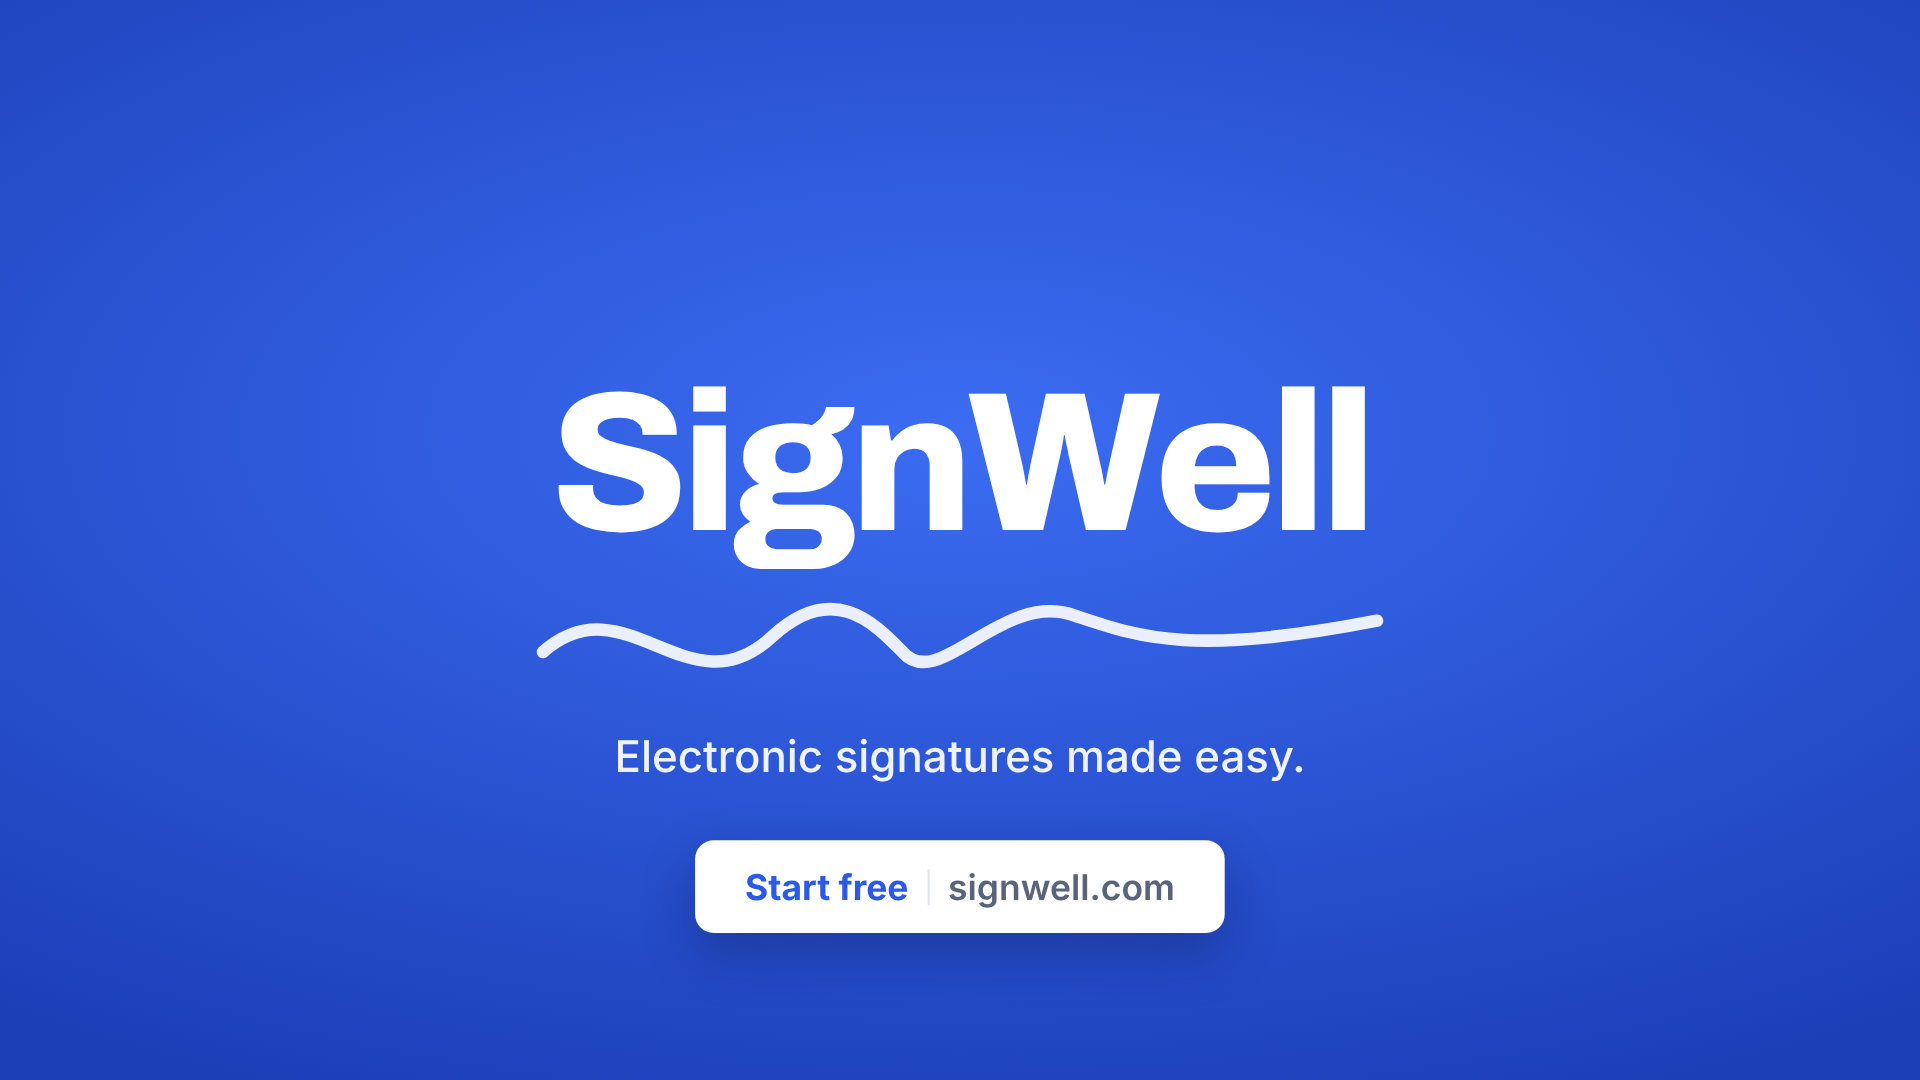
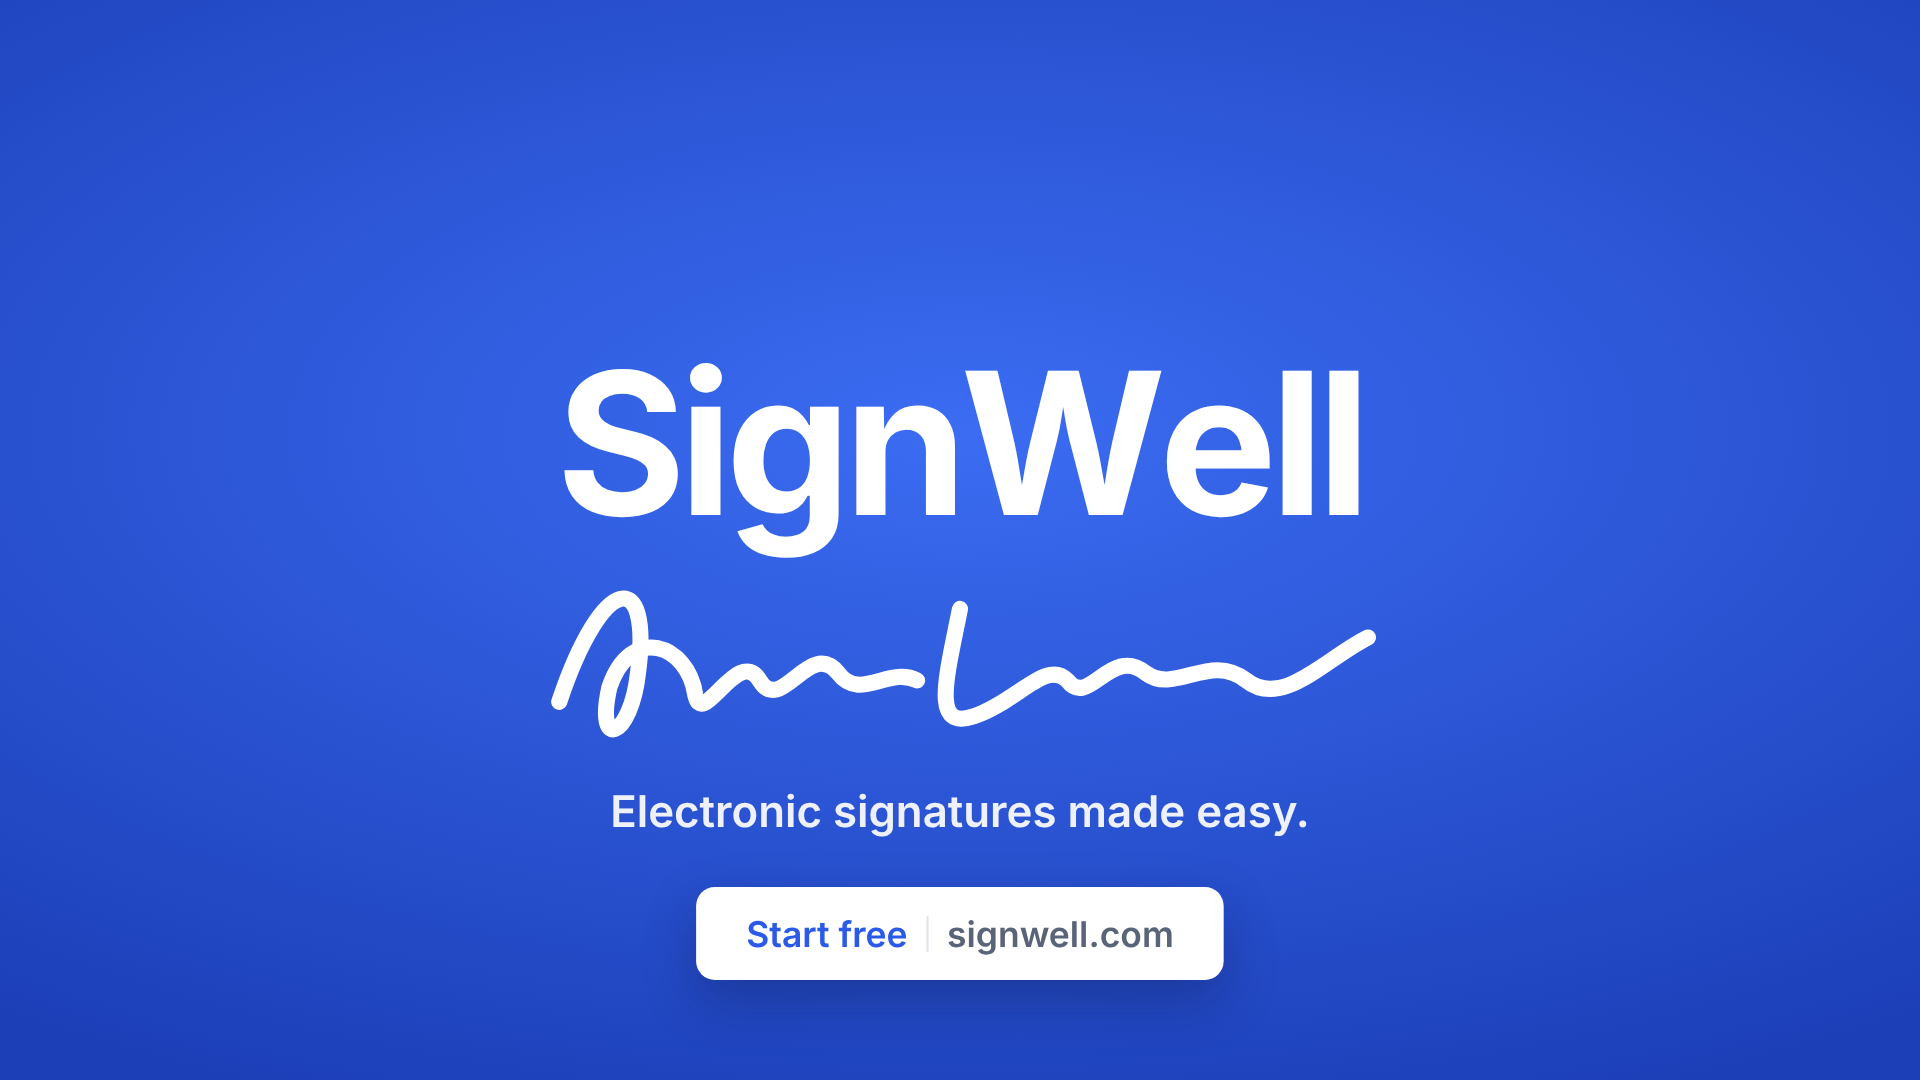
Apply client type guideline: Inter 700/600/400, buttons 600
Type weights live in TYPE tokens in config.ts; Archivo dropped.

Claude-Session: https://claude.ai/code/session_01Bj9t4gf6bduhWLshrrUDNo

Changed region(s): [[0.2812, 0.3361, 0.7188, 0.9167]]

diff --git a/signwell/src/components/Editor.tsx b/signwell/src/components/Editor.tsx
@@ -1,4 +1,5 @@
 import React from 'react';
+import {TYPE} from '../config';
 import {COLORS, COPY} from '../config';
 import {BODY, DISPLAY, HAND} from '../fonts';
 
@@ -17,7 +18,7 @@ export type Status = 'send' | 'sent' | 'viewed' | 'signed';
 
 export const FieldChip: React.FC<{label: string; w: number; h: number; color?: string; soft?: string; dashed?: boolean; size?: number}> = ({label, w, h, color = COLORS.blue, soft = 'rgba(43,89,232,.12)', dashed, size = 20}) => (
   <div style={{width: w, height: h, borderRadius: 10, border: `3px ${dashed ? 'dashed' : 'solid'} ${color}`, background: soft,
-    display: 'flex', alignItems: 'center', justifyContent: 'center', color, fontFamily: BODY, fontWeight: 700, fontSize: size}}>{label}</div>
+    display: 'flex', alignItems: 'center', justifyContent: 'center', color, fontFamily: BODY, fontWeight: TYPE.button, fontSize: size}}>{label}</div>
 );
 
 export const Signature: React.FC<{progress: number; width?: number; color?: string}> = ({progress, width = 240, color = '#14286e'}) => {
@@ -47,25 +48,25 @@ export const Editor: React.FC<{
       {/* top bar */}
       <div style={{height: WIN.top, borderBottom: `1px solid ${COLORS.line}`, display: 'flex', alignItems: 'center', gap: 14, padding: '0 24px'}}>
         {[0, 1, 2].map(i => <div key={i} style={{width: 14, height: 14, borderRadius: '50%', background: '#e3e6ee'}} />)}
-        <div style={{fontFamily: DISPLAY, fontWeight: 800, fontSize: 26, color: COLORS.blue, marginLeft: 16}}>{COPY.s3.product}</div>
+        <div style={{fontFamily: DISPLAY, fontWeight: TYPE.heading, fontSize: 26, color: COLORS.blue, marginLeft: 16}}>{COPY.s3.product}</div>
         <div style={{fontSize: 19, color: COLORS.ink2, marginLeft: 22}}>{COPY.s3.docName}</div>
         <div style={{marginLeft: 'auto', display: 'flex', alignItems: 'center', gap: 10, fontSize: 18, color: COLORS.ink2}}>
           To
           <span style={{display: 'inline-flex', alignItems: 'center', gap: 8, padding: '7px 14px', borderRadius: 99, background: COLORS.blueSoft, color: COLORS.blue, fontWeight: 600}}>
             <span style={{width: 10, height: 10, borderRadius: '50%', background: COLORS.blue}} />{COPY.s3.recipient}</span>
         </div>
-        <div style={{width: 140, height: 46, borderRadius: 12, background: pill.bg, color: pill.fg, fontWeight: 700, fontSize: 20, marginLeft: 16,
+        <div style={{width: 140, height: 46, borderRadius: 12, background: pill.bg, color: pill.fg, fontWeight: TYPE.button, fontSize: 20, marginLeft: 16,
           display: 'flex', alignItems: 'center', justifyContent: 'center', transform: `scale(${statusScale})`}}>{pill.label}</div>
       </div>
       <div style={{display: 'flex', height: WIN.h - WIN.top}}>
         {/* field palette */}
         <div style={{width: WIN.side, borderRight: `1px solid ${COLORS.line}`, padding: '0 24px', position: 'relative'}}>
-          <div style={{position: 'absolute', top: 30, left: 24, fontSize: 15, fontWeight: 700, letterSpacing: '.12em', color: COLORS.ink2}}>FIELDS</div>
+          <div style={{position: 'absolute', top: 30, left: 24, fontSize: 15, fontWeight: TYPE.subheading, letterSpacing: '.12em', color: COLORS.ink2}}>FIELDS</div>
           {COPY.s3.fields.map((label, i) => (
             <div key={i} style={{position: 'absolute', left: 24, top: 150 + i * 76 - 30 - WIN.top, width: 232, height: 60, borderRadius: 12,
               border: `2px solid ${hoverIndex === i ? COLORS.blue : COLORS.line}`, background: hoverIndex === i ? COLORS.blueSoft : '#fff',
               display: 'flex', alignItems: 'center', gap: 12, padding: '0 18px', fontSize: 20, fontWeight: 600, color: hoverIndex === i ? COLORS.blue : COLORS.ink}}>
-              <span style={{width: 26, height: 26, borderRadius: 7, background: COLORS.blueSoft, color: COLORS.blue, fontSize: 15, fontWeight: 800,
+              <span style={{width: 26, height: 26, borderRadius: 7, background: COLORS.blueSoft, color: COLORS.blue, fontSize: 15, fontWeight: TYPE.heading,
                 display: 'flex', alignItems: 'center', justifyContent: 'center'}}>{['✎', 'AB', '▦', 'T'][i]}</span>{label}
             </div>
           ))}
@@ -74,11 +75,11 @@ export const Editor: React.FC<{
         <div style={{flex: 1, background: COLORS.canvas, position: 'relative', overflow: 'hidden'}}>
           <div style={{position: 'absolute', left: PAGE.x - WIN.side, top: PAGE.y - WIN.top, width: PAGE.w, height: 900, background: '#fff',
             boxShadow: '0 8px 24px rgba(20,27,45,.08)'}}>
-            <div style={{position: 'absolute', left: 48, top: 48, fontFamily: DISPLAY, fontWeight: 700, fontSize: 32}}>{COPY.s3.docTitle}</div>
+            <div style={{position: 'absolute', left: 48, top: 48, fontFamily: DISPLAY, fontWeight: TYPE.heading, fontSize: 32}}>{COPY.s3.docTitle}</div>
             {[[110, 92], [134, 100], [158, 86], [182, 96], [206, 70]].map(([y, w], k) => (
               <div key={k} style={{position: 'absolute', left: 48, top: y, width: `${(w as number) * 0.85}%`, height: 9, borderRadius: 5, background: '#e8ebf2'}} />
             ))}
-            <div style={{position: 'absolute', left: 48, top: 300, fontFamily: DISPLAY, fontWeight: 700, fontSize: 24}}>7. Signatures</div>
+            <div style={{position: 'absolute', left: 48, top: 300, fontFamily: DISPLAY, fontWeight: TYPE.subheading, fontSize: 24}}>7. Signatures</div>
             {/* client slot */}
             <div style={{position: 'absolute', left: SLOT_SIG.x, top: SLOT_SIG.y + SLOT_SIG.h + 6, width: SLOT_SIG.w, borderTop: '2px solid #c9ced8', paddingTop: 6, fontSize: 15, color: COLORS.ink2}}>Client · {COPY.s3.recipient}</div>
             <div style={{position: 'absolute', left: SLOT_SIG.x, top: SLOT_SIG.y, transform: `scale(${sig})`, opacity: Math.min(1, sig * 1.5)}}>

diff --git a/signwell/src/scenes/S4Payoff.tsx b/signwell/src/scenes/S4Payoff.tsx
@@ -1,4 +1,5 @@
 import React from 'react';
+import {TYPE} from '../config';
 import {useCurrentFrame, interpolate, Easing} from 'remotion';
 import {Stage, At} from '../components/Stage';
 import {Camera} from '../components/Camera';
@@ -52,25 +53,25 @@ export const S4Payoff: React.FC = () => {
               boxShadow: '0 50px 100px rgba(0,0,0,.5)', border: '2px solid rgba(255,255,255,.12)'}}>
               <div style={{width: '100%', height: '100%', borderRadius: 44, background: '#fff', position: 'relative', overflow: 'hidden', fontFamily: BODY, color: COLORS.ink, padding: '58px 26px 26px'}}>
                 <div style={{position: 'absolute', top: 14, left: '50%', width: 90, height: 24, marginLeft: -45, borderRadius: 12, background: '#0d1220'}} />
-                <div style={{fontWeight: 700, fontSize: 22}}>{COPY.s3.docTitle}</div>
+                <div style={{fontWeight: TYPE.heading, fontSize: 22}}>{COPY.s3.docTitle}</div>
                 <div style={{fontSize: 15, color: COLORS.ink2, marginBottom: 22}}>From {COPY.s3.sender}</div>
                 {[100, 88, 94, 70].map((w, k) => <div key={k} style={{height: 8, width: `${w}%`, borderRadius: 4, background: '#e8ebf2', marginBottom: 12}} />)}
                 <div style={{marginTop: 30, height: 150, borderRadius: 14, border: `3px solid ${f >= t.signed ? COLORS.green : COLORS.blue}`,
                   background: f >= t.signed ? 'rgba(30,158,100,.06)' : 'rgba(43,89,232,.06)', position: 'relative', display: 'flex', alignItems: 'center', justifyContent: 'center'}}>
-                  <span style={{position: 'absolute', left: 12, top: 8, fontSize: 12, fontWeight: 700, letterSpacing: '.1em', color: COLORS.blue}}>SIGN HERE</span>
+                  <span style={{position: 'absolute', left: 12, top: 8, fontSize: 12, fontWeight: TYPE.subheading, letterSpacing: '.1em', color: COLORS.blue}}>SIGN HERE</span>
                   <Signature progress={ink} width={250} />
                 </div>
                 <div style={{position: 'absolute', left: 26, right: 26, bottom: 26, height: 64, borderRadius: 16, background: COLORS.green, color: '#fff',
-                  fontWeight: 700, fontSize: 24, display: 'flex', alignItems: 'center', justifyContent: 'center', transform: `scale(${press(f, t.finish)})`}}>Finish</div>
+                  fontWeight: TYPE.button, fontSize: 24, display: 'flex', alignItems: 'center', justifyContent: 'center', transform: `scale(${press(f, t.finish)})`}}>Finish</div>
                 {/* Done overlay */}
                 <div style={{position: 'absolute', left: 0, right: 0, top: 0, height: 236, background: '#fff', opacity: Math.min(1, done * 1.3),
                   display: 'flex', flexDirection: 'column', alignItems: 'center', justifyContent: 'center', gap: 10, paddingTop: 30}}>
-                  <div style={{width: 84, height: 84, borderRadius: '50%', background: COLORS.green, color: '#fff', fontSize: 44, fontWeight: 800,
+                  <div style={{width: 84, height: 84, borderRadius: '50%', background: COLORS.green, color: '#fff', fontSize: 44, fontWeight: TYPE.heading,
                     display: 'flex', alignItems: 'center', justifyContent: 'center', transform: `scale(${done})`}}>✓</div>
-                  <div style={{fontFamily: DISPLAY, fontWeight: 800, fontSize: 28}}>All signed</div>
+                  <div style={{fontFamily: DISPLAY, fontWeight: TYPE.heading, fontSize: 28}}>All signed</div>
                 </div>
                 <div style={{position: 'absolute', left: 26, right: 26, bottom: 26, height: 64, borderRadius: 16, background: COLORS.greenSoft, color: COLORS.green,
-                  fontWeight: 700, fontSize: 22, display: 'flex', alignItems: 'center', justifyContent: 'center', opacity: Math.min(1, done * 1.3)}}>Copy sent to both parties</div>
+                  fontWeight: TYPE.button, fontSize: 18, whiteSpace: 'nowrap', display: 'flex', alignItems: 'center', justifyContent: 'center', opacity: Math.min(1, done * 1.3)}}>Copy sent to both parties</div>
               </div>
             </div>
           </At>
@@ -85,7 +86,7 @@ export const S4Payoff: React.FC = () => {
             <div style={{opacity: Math.min(1, counterIn * 1.4) * out, transform: `translateY(${(1 - counterIn) * -24}px)`, display: 'flex', alignItems: 'baseline', gap: 14,
               padding: '14px 26px', borderRadius: 16, background: 'rgba(255,255,255,.08)', border: '1px solid rgba(255,255,255,.18)', fontFamily: BODY, color: '#fff'}}>
               <span style={{fontSize: 20, fontWeight: 600, letterSpacing: '.1em', textTransform: 'uppercase', opacity: .75, whiteSpace: 'nowrap'}}>{COPY.s4.counterLabel}</span>
-              <span style={{fontFamily: DISPLAY, fontWeight: 800, fontSize: 52, color: '#5fe0a3', fontVariantNumeric: 'tabular-nums', minWidth: 60, textAlign: 'right'}}>{wait.v}</span>
+              <span style={{fontFamily: DISPLAY, fontWeight: TYPE.heading, fontSize: 52, color: '#5fe0a3', fontVariantNumeric: 'tabular-nums', minWidth: 60, textAlign: 'right'}}>{wait.v}</span>
               <span style={{fontSize: 24, fontWeight: 600, minWidth: 70}}>{wait.u}</span>
             </div>
           </At>

diff --git a/signwell/src/scenes/S1Hook.tsx b/signwell/src/scenes/S1Hook.tsx
@@ -1,4 +1,5 @@
 import React from 'react';
+import {TYPE} from '../config';
 import {useCurrentFrame} from 'remotion';
 import {Stage, At} from '../components/Stage';
 import {Camera} from '../components/Camera';
@@ -40,11 +41,11 @@ export const S1Hook: React.FC = () => {
                 <div style={{width: CARD_W, height: CARD_H, borderRadius: 20, background: COLORS.paper, opacity: Math.min(1, p * 1.5) * age,
                   transform: `scale(${0.9 + 0.1 * p})`, display: 'flex', alignItems: 'center', gap: 22, padding: '0 28px',
                   boxShadow: '0 24px 50px rgba(0,0,0,.35)', fontFamily: BODY}}>
-                  <div style={{width: 52, height: 52, borderRadius: '50%', background: '#f3c9a8', color: '#7a4422', fontWeight: 700,
+                  <div style={{width: 52, height: 52, borderRadius: '50%', background: '#f3c9a8', color: '#7a4422', fontWeight: TYPE.subheading,
                     fontSize: 22, display: 'flex', alignItems: 'center', justifyContent: 'center', flexShrink: 0}}>M</div>
                   <div style={{flex: 1, minWidth: 0}}>
-                    <div style={{fontSize: 18, color: COLORS.ink2, fontWeight: 500}}>{e.from}</div>
-                    <div style={{fontSize: 27, color: COLORS.ink, fontWeight: 700, whiteSpace: 'nowrap'}}>{e.subject}</div>
+                    <div style={{fontSize: 18, color: COLORS.ink2, fontWeight: TYPE.body}}>{e.from}</div>
+                    <div style={{fontSize: 27, color: COLORS.ink, fontWeight: TYPE.subheading, whiteSpace: 'nowrap'}}>{e.subject}</div>
                   </div>
                   <div style={{fontSize: 18, color: urgent ? '#e0452c' : COLORS.ink2, fontWeight: 600}}>{e.meta}</div>
                 </div>
@@ -58,7 +59,7 @@ export const S1Hook: React.FC = () => {
               display: 'flex', alignItems: 'baseline', gap: 14, padding: '14px 26px', borderRadius: 16,
               background: 'rgba(255,255,255,.08)', border: '1px solid rgba(255,255,255,.18)', fontFamily: BODY, color: '#fff'}}>
               <span style={{fontSize: 20, fontWeight: 600, letterSpacing: '.1em', textTransform: 'uppercase', opacity: .75, whiteSpace: 'nowrap'}}>{COPY.s1.counterLabel}</span>
-              <span style={{fontFamily: DISPLAY, fontWeight: 800, fontSize: 52, color: COLORS.amber, fontVariantNumeric: 'tabular-nums', minWidth: 34, textAlign: 'right', display: 'inline-block', transform: `scale(${punch})`}}>{days}</span>
+              <span style={{fontFamily: DISPLAY, fontWeight: TYPE.heading, fontSize: 52, color: COLORS.amber, fontVariantNumeric: 'tabular-nums', minWidth: 34, textAlign: 'right', display: 'inline-block', transform: `scale(${punch})`}}>{days}</span>
               <span style={{fontSize: 24, fontWeight: 600}}>{COPY.s1.counterUnit}</span>
             </div>
           </At>

diff --git a/signwell/src/scenes/S5Logo.tsx b/signwell/src/scenes/S5Logo.tsx
@@ -1,4 +1,5 @@
 import React from 'react';
+import {TYPE} from '../config';
 import {useCurrentFrame} from 'remotion';
 import {Stage, At} from '../components/Stage';
 import {Camera} from '../components/Camera';
@@ -28,7 +29,7 @@ export const S5Logo: React.FC = () => {
             </div>
           </At>
           <At x={0} y={-90}>
-            <div style={{display: 'flex', fontFamily: DISPLAY, fontWeight: 800, fontSize: 190, letterSpacing: '-0.035em', color: '#fff', lineHeight: 1}}>
+            <div style={{display: 'flex', fontFamily: DISPLAY, fontWeight: TYPE.heading, fontSize: 190, letterSpacing: '-0.035em', color: '#fff', lineHeight: 1}}>
               {COPY.s5.wordmark.split('').map((ch, i) => {
                 const p = enter(f, t.word + i * 2);
                 return <span key={i} style={{display: 'inline-block', opacity: Math.min(1, p * 1.5), transform: `translateY(${(1 - p) * 50}px)`}}>{ch}</span>;
@@ -36,13 +37,13 @@ export const S5Logo: React.FC = () => {
             </div>
           </At>
           <At x={0} y={262}>
-            <div style={{opacity: Math.min(1, tag * 1.4), transform: `translateY(${(1 - tag) * 30}px)`, fontFamily: BODY, fontWeight: 500, fontSize: 42, color: 'rgba(255,255,255,.92)', whiteSpace: 'nowrap'}}>
+            <div style={{opacity: Math.min(1, tag * 1.4), transform: `translateY(${(1 - tag) * 30}px)`, fontFamily: BODY, fontWeight: TYPE.subheading, fontSize: 42, color: 'rgba(255,255,255,.92)', whiteSpace: 'nowrap'}}>
               {COPY.s5.tagline}
             </div>
           </At>
           <At x={0} y={380}>
             <div style={{opacity: Math.min(1, cta * 1.4), transform: `translateY(${(1 - cta) * 30}px) scale(${0.9 + 0.1 * cta})`, display: 'flex', alignItems: 'center', gap: 18,
-              padding: '24px 48px', borderRadius: 18, background: '#fff', color: COLORS.blue, fontFamily: BODY, fontWeight: 700, fontSize: 34,
+              padding: '24px 48px', borderRadius: 18, background: '#fff', color: COLORS.blue, fontFamily: BODY, fontWeight: TYPE.button, fontSize: 34,
               boxShadow: '0 20px 50px rgba(10,20,60,.3)', whiteSpace: 'nowrap'}}>
               {COPY.s5.cta}<span style={{width: 2, height: 34, background: COLORS.line}} /><span style={{color: COLORS.ink2, fontWeight: 600}}>{COPY.s5.url}</span>
             </div>

diff --git a/signwell/src/components/Words.tsx b/signwell/src/components/Words.tsx
@@ -3,13 +3,14 @@ import {interpolate} from 'remotion';
 import {enter, drift, clamp} from '../anim';
 import {rnd} from '../fx/Glitch';
 import {DISPLAY} from '../fonts';
+import {TYPE} from '../config';
 
 // Kinetic headline: each word rises out of a mask with overshoot and a short RGB-split
 // stutter on arrival, then keeps a slow drift. `accent` maps word index → color.
 export const Words: React.FC<{
   words: string[]; f: number; start?: number; starts?: number[]; offset?: number;
   size?: number; color?: string; weight?: number; gap?: number; accent?: Record<number, string>;
-}> = ({words, f, start = 0, starts, offset = 4, size = 84, color = '#fff', weight = 800, gap = 0.28, accent = {}}) => (
+}> = ({words, f, start = 0, starts, offset = 4, size = 84, color = '#fff', weight = TYPE.heading, gap = 0.28, accent = {}}) => (
   <div style={{display: 'flex', gap: `0 ${gap}em`, justifyContent: 'center', flexWrap: 'nowrap', whiteSpace: 'nowrap',
     fontFamily: DISPLAY, fontWeight: weight, fontSize: size, letterSpacing: '-0.02em', color, lineHeight: 1.1,
     transform: `translateY(${drift(f, 3, 300)}px)`}}>

diff --git a/signwell/src/scenes/S2Problem.tsx b/signwell/src/scenes/S2Problem.tsx
@@ -1,4 +1,5 @@
 import React from 'react';
+import {TYPE} from '../config';
 import {useCurrentFrame, interpolate} from 'remotion';
 import {Stage, At} from '../components/Stage';
 import {Camera} from '../components/Camera';
@@ -64,7 +65,7 @@ export const S2Problem: React.FC = () => {
                   border: `2px solid ${accent}`, display: 'flex', flexDirection: 'column', alignItems: 'center', justifyContent: 'flex-end',
                   paddingBottom: 30, gap: 8, fontFamily: BODY, color: '#fff'}}>
                   <div style={{marginBottom: 'auto', marginTop: 40, opacity: 0.6 + 0.4 * lit}}><Icon i={i} color={active ? COLORS.amber : '#fff'} /></div>
-                  <div style={{fontSize: 32, fontWeight: 700}}>{label}</div>
+                  <div style={{fontSize: 32, fontWeight: TYPE.subheading}}>{label}</div>
                   <div style={{fontSize: 20, fontWeight: 600, color: COLORS.amber, opacity: lit}}>{COPY.s2.delays[i]}</div>
                 </div>
               </At>

diff --git a/signwell/src/fonts.ts b/signwell/src/fonts.ts
@@ -2,12 +2,11 @@ import {continueRender, delayRender, staticFile} from 'remotion';
 
 // Fonts ship with the project (public/fonts) and must be ready before frame 0 renders.
 // A fallback font in a frame is a bug.
-export const DISPLAY = 'SW Archivo, Arial, sans-serif';
+export const DISPLAY = 'SW Inter, Arial, sans-serif'; // headings use Inter 700 per the type guideline
 export const BODY = 'SW Inter, Arial, sans-serif';
 export const HAND = 'SW Caveat, cursive';
 
 const faces: [string, string, string][] = [
-  ['SW Archivo', '700', 'archivo-700'], ['SW Archivo', '800', 'archivo-800'],
   ['SW Inter', '400', 'inter-400'], ['SW Inter', '500', 'inter-500'], ['SW Inter', '600', 'inter-600'], ['SW Inter', '700', 'inter-700'],
   ['SW Caveat', '600', 'caveat-600'],
 ];

diff --git a/signwell/src/config.ts b/signwell/src/config.ts
@@ -19,6 +19,14 @@ export const COLORS = {
   white: '#ffffff',
 };
 
+// Type guideline (client): Inter everywhere.
+export const TYPE = {
+  heading: 700,     // main headings
+  subheading: 600,  // subheadings
+  body: 400,        // body text
+  button: 600,      // buttons and navigation (500–600)
+};
+
 export const COPY = {
   s1: {
     emails: [
